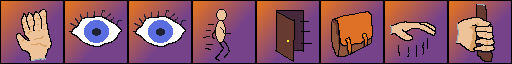
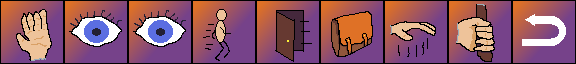
Updated game test.

diff --git a/game-test/game-objects.js b/game-test/game-objects.js
@@ -223,6 +223,7 @@ function Key(obj) {
 	obj.unlocks = [];
 	obj.use_activate = function(actor, uiChrome) {
 		console.log('key activate');
+		return true;
 	};
 	obj.use_deactivate = function(actor, uiChrome) {
 		console.log('key deactivate');
@@ -237,20 +238,29 @@ function Key(obj) {
 					if(flag) { return; }
 					if(gameObj == GameObjects[lock.name]) {
 						flag = true;
-						gameObj.lock_unlock(obj);
-/*						if() {
-							uiChrome.dialog(lock.nothing);
+						const status = gameObj.lock_status();
+						const newStatus = gameObj.lock_unlock(obj);
+						if(newStatus == 'locked') {
+							if(status == 'locked') {
+								uiChrome.dialog(lock.nothing);
+							} else {
+								uiChrome.dialog(lock.lock);
+							}
 						} else {
-							uiChrome.dialog(lock.unlock);
-						}*/
+							if(status == 'locked') {
+								uiChrome.dialog(lock.unlock);
+							} else {
+								uiChrome.dialog(lock.nothing);
+							}
+						}
 					}
 				});
 				return flag;
 			});
 		return !flag;
 	};
-	obj.key_unlocks = function(name, unlock, nothing) {
-		this.unlocks.push({ name: name, unlock: unlock, nothing: nothing});
+	obj.key_unlocks = function(lock) {
+		this.unlocks.push({ name: lock.name, unlock: lock.unlock, lock: lock.lock, nothing: lock.nothing });
 		return this;
 	};
 	return obj;
@@ -265,6 +275,7 @@ function Lock(obj) {
 		console.log(this.locked);
 		return this.locked;
 	};
+	obj.lock_status = function() { return this.locked; };
 	return obj;
 }
 
@@ -282,6 +293,33 @@ function Openable(obj) {
 			return true;
 	}
 	return obj;
+}
+
+function Container(name) {
+	return obj => {
+		obj.container = new ContainerRoom(name);
+		obj.look_inside = function (actor, uiChome) {
+			console.log('look inside');
+			const currentRoom = actor.currentRoom;
+			
+			const action = {
+				asset: uiChrome.getIconAsset('return'),
+				activate: () => {
+					// to do
+					actor.currentRoom = currentRoom;
+					obj.container.look_away(actor);
+					uiChrome.removeAction(action);
+					return false;
+				},
+				deactivate: () => {},
+				target: (x,y) => { return false; }
+			};
+			uiChrome.addAction(action);
+			obj.container.look_inside(actor);
+			actor.currentRoom = obj.container;
+		};
+		return obj;
+	};
 }
 
 function Stackable(obj) {

diff --git a/game-test/game.js b/game-test/game.js
@@ -108,20 +108,23 @@ function UIChrome(Verbs, stage, screen) {
 			actionList[currentAction].deactivate();
 			specialActions.removeChild(currentGraphics);
 			if (actionList[currentAction] != action) {
-				currentAction = actionList.indexOf(action);
-				action.activate();
-				const graphics = iconHighlight(action.asset);
-				specialActions.addChild(graphics);
-				currentGraphics = graphics;
+				currentAction = -1;
+				if(action.activate()) {
+					currentAction = actionList.indexOf(action);
+					const graphics = iconHighlight(action.asset);
+					specialActions.addChild(graphics);
+					currentGraphics = graphics;
+				}
 			} else {
 				currentAction = -1;
 			}
 		} else {
-			currentAction = actionList.indexOf(action);
-			action.activate();
-			const graphics = iconHighlight(action.asset);
-			specialActions.addChild(graphics);
-			currentGraphics = graphics;
+			if(action.activate()) {
+				currentAction = actionList.indexOf(action);
+				const graphics = iconHighlight(action.asset);
+				specialActions.addChild(graphics);
+				currentGraphics = graphics;
+			}
 		}
 	};
 
@@ -137,6 +140,7 @@ function UIChrome(Verbs, stage, screen) {
 	this.removeAction = function(action) {
 		const idx = actionList.indexOf(action);
 		if(currentAction == idx) {
+			specialActions.removeChild(currentGraphics);
 			currentAction = -1;
 			action.deactivate();
 		}
@@ -223,6 +227,7 @@ function UIChrome(Verbs, stage, screen) {
 				if(currentVerb != '') {
 					icons.removeChild(currentGraphics);
 					Verbs[currentVerb].deactivate();
+					currentVerb = '';
 				}
 				if(Verbs[verb].activate()) {
 					const graphics = iconHighlight(anim);
@@ -231,8 +236,6 @@ function UIChrome(Verbs, stage, screen) {
 					icons.addChild(graphics);
 					currentVerb = verb;
 					currentGraphics = graphics;
-				} else {
-					currentVerb = '';
 				}
 			} else {
 				if(currentVerb != '') {
@@ -244,6 +247,8 @@ function UIChrome(Verbs, stage, screen) {
 			console.log(verb);
 		};
 	};
+
+	this.getIconAsset = function(verb) { return iconAssets[verb]; };
 
 	this.addIconAsset = function(verb, asset, attribs) {
 		iconAssets[verb] = asset;

diff --git a/game-test/verbs.js b/game-test/verbs.js
@@ -48,7 +48,7 @@ function findObjects(room, mapType, x,y, handler) {
 			console.log(mapType + ' map available');
 			Object.keys(collide(pixelMap, x - gameObj.x, y - gameObj.y, verbColors, state.maps[mapType]))
 				.forEach(rgb => {
-					flag = handler(gameObj);
+					flag = handler(gameObj, rgb);
 				});
 		} else {
 			console.log('no map');
@@ -59,7 +59,7 @@ function findObjects(room, mapType, x,y, handler) {
 
 function findObjectsWithOverlap(actor, mapType, x,y, handler) {
 	return findObjects(actor.currentRoom, mapType, x,y,
-		gameObj => {
+		(gameObj, rgb) => {
 			if(gameObj == actor) { return false; }
 			const state = gameObj.states[gameObj.currentState];
 			let flag = false;
@@ -67,10 +67,10 @@ function findObjectsWithOverlap(actor, mapType, x,y, handler) {
 				.keys(collide(actor.states[actor.currentState].map,
 					actor.x + actor.dx - gameObj.x, actor.y + actor.dy - gameObj.y,
 					verbColors, state.maps[mapType]))
-				.forEach(rgb => {
+				.forEach(rgb2 => {
 					console.log('overlap');
 					if(flag) { return; }
-					flag = handler(gameObj);
+					flag = handler(gameObj, rgb, rgb2);
 				});
 			return flag;
 		});
@@ -82,8 +82,12 @@ function VerbLook(actor, Verbs, uiChrome) {
 	this.target = function (x,y) {
 		console.log('look ' + x + ', ' + y);
 		let flag = findObjects(this.actor.currentRoom, 'look', x,y,
-			gameObj => {
-				uiChrome.dialog(gameObj.getDescription());
+			(gameObj, rgb) => {
+				if(('look_inside' in gameObj) && (rgb == 'ff00ff')) {
+					gameObj.look_inside(actor, uiChrome);
+				} else {
+					uiChrome.dialog(gameObj.getDescription());
+				}
 				return true;
 			});
 		if(!flag) {

diff --git a/game-test/game.html b/game-test/game.html
@@ -99,7 +99,8 @@ new Room('room0')
 		.as('A large treasure chest')
 		.setXY(590, 185)
 		.addTrait(Lock)
-		.addTrait(Openable))
+		.addTrait(Openable)
+		.addTrait(Container('chest-inside')))
 	.having(player.setXY(110, 316))
 	.addTrait(OutdoorRoom(GameState));
 new Room('room1')
@@ -109,7 +110,7 @@ new Room('room1')
 		.as('A large gold key')
 		.usable(true)
 		.addTrait(Key)
-		.key_unlocks('chest', 'With a click, the chest unlocks', 'Nothing happens')
+		.key_unlocks({name: 'chest', unlock: 'With a click, the chest unlocks', lock: 'The lock clicks, sealing the chest', nothing: 'Nothing happens'})
 		.setXY(77, 247));
 
 
@@ -128,6 +129,7 @@ app.loader
 	.add("room0.json")
 	.add("room1.json")
 	.add("chest.json")
+	.add("chest-inside.json")
 	.add("key.json")
 	.add("icons.json")
 	.load(

diff --git a/game-test/rooms.js b/game-test/rooms.js
@@ -184,13 +184,16 @@ function Room(name) {
 function ContainerRoom(name) {
 	Room.call(this, name);
 
-	this.priorRoom = [];
-
 	this.moveTo = function (obj, currentRoom, travelling) {
 		currentRoom.removeObject(obj);
-		this.priorRoom.push({ obj: obj, x: obj.x, y: obj.y, room: currentRoom });
 
-	}
+	};
+
+	this.look_away = function(actor) {
+	};
+
+	this.look_inside = function(actor) {
+	};
 }
 
 
